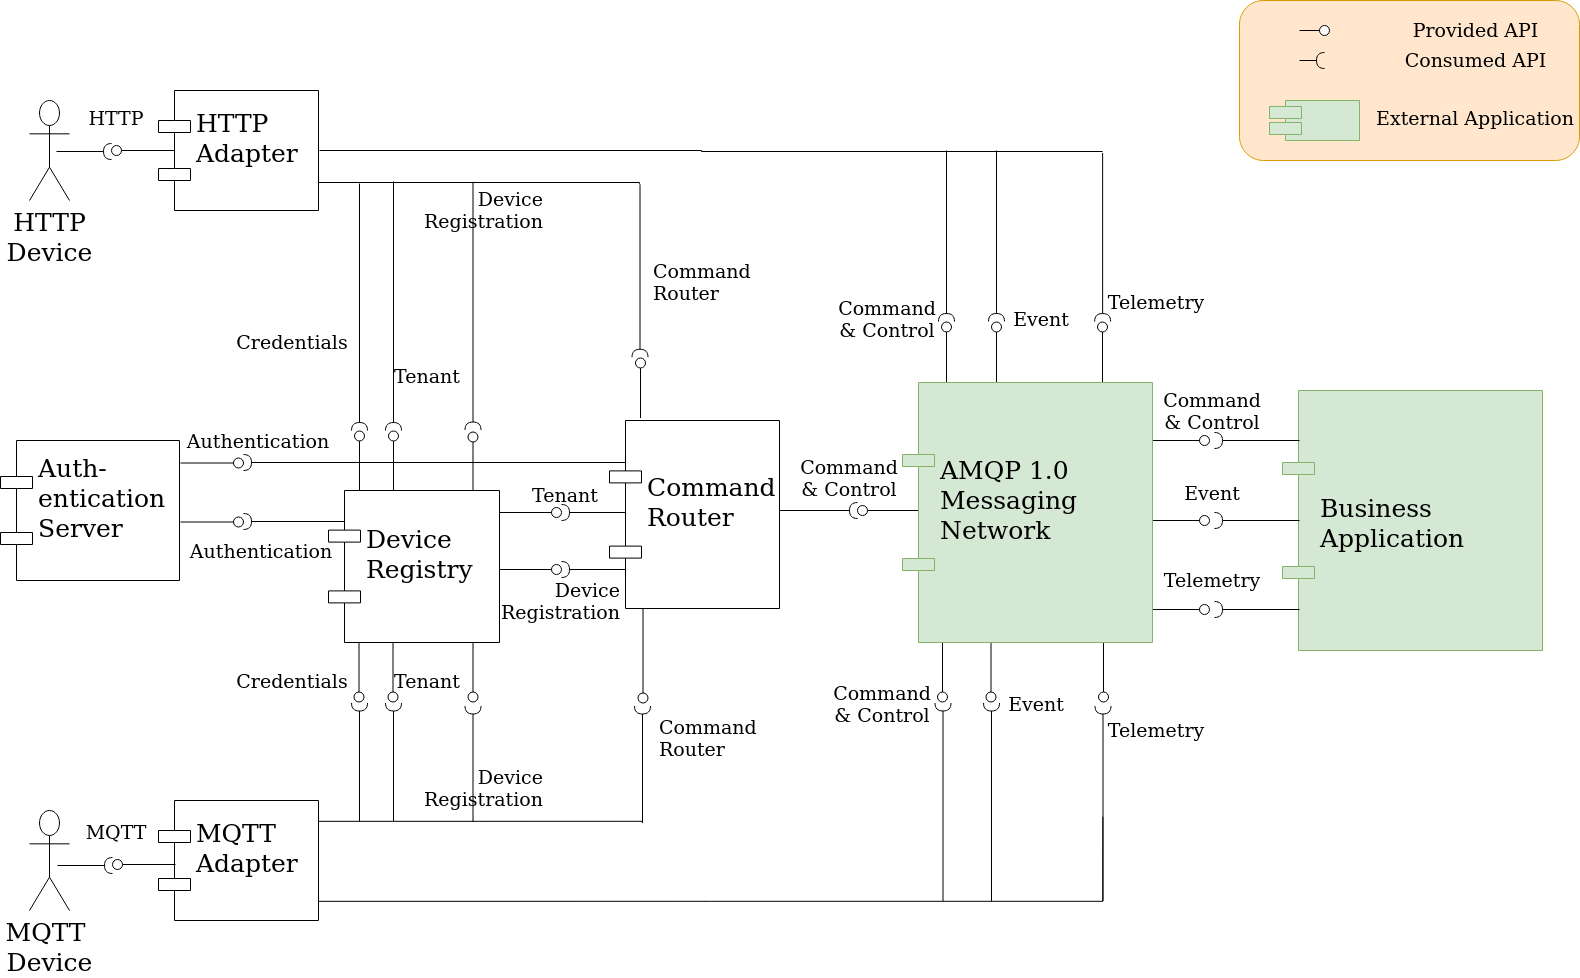
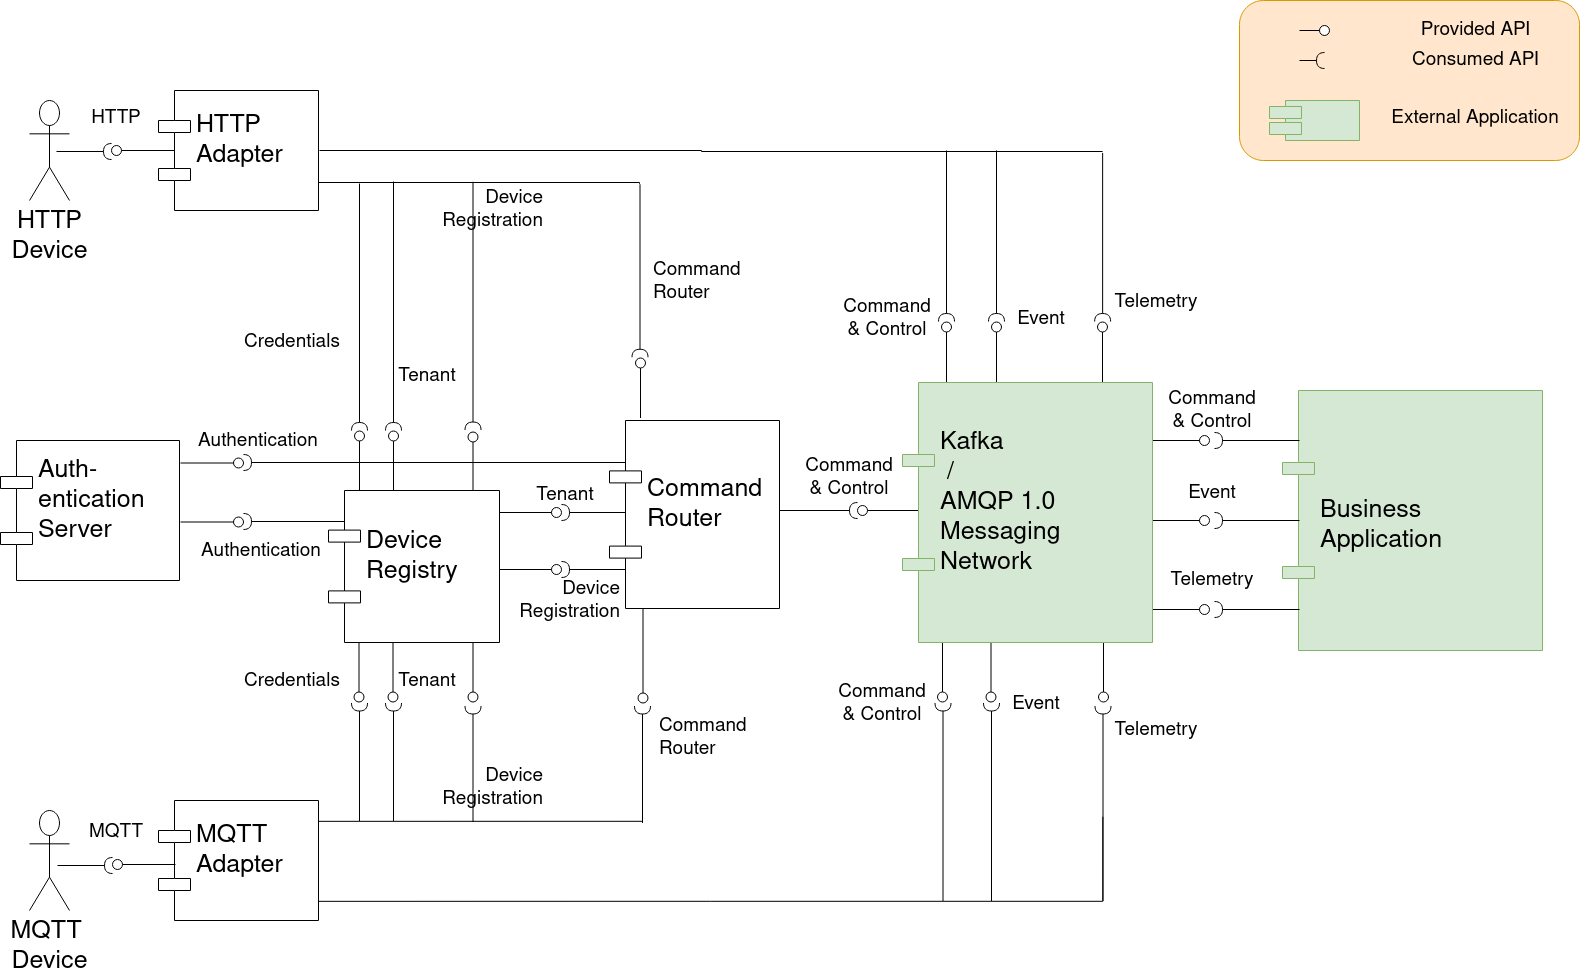
[#3218] Include Kafka in Hono overview images.

diff --git a/site/documentation/content/_index.md b/site/documentation/content/_index.md
@@ -1,12 +1,14 @@
-+++
-title="Documentation"
-weight = 120
-pre = '&nbsp;<i class="fas fa-book"></i>&nbsp;'
-+++
+---
+title: "Documentation"
+weight: 120
+pre: '&nbsp;<i class="fas fa-book"></i>&nbsp;'
+resources:
+- src: overview_hono.svg
+---
 
 # Documentation 
 
-![Diagram showing data flowing from devices through Hono to Business Applications and back](images/overview_hono.svg?width=70pc)
+{{< figure src="overview_hono.svg?width=70pc" title="Diagram showing data flowing from devices through Hono to Business Applications and back" >}}
 
 The place of Eclipse Hono&trade; is within an IoT cloud. The goal is simplified device connectivity for _Business Applications_ (or _Solutions_).
 It abstracts away the multiple specifics of different device-side connection protocols from a backend application
